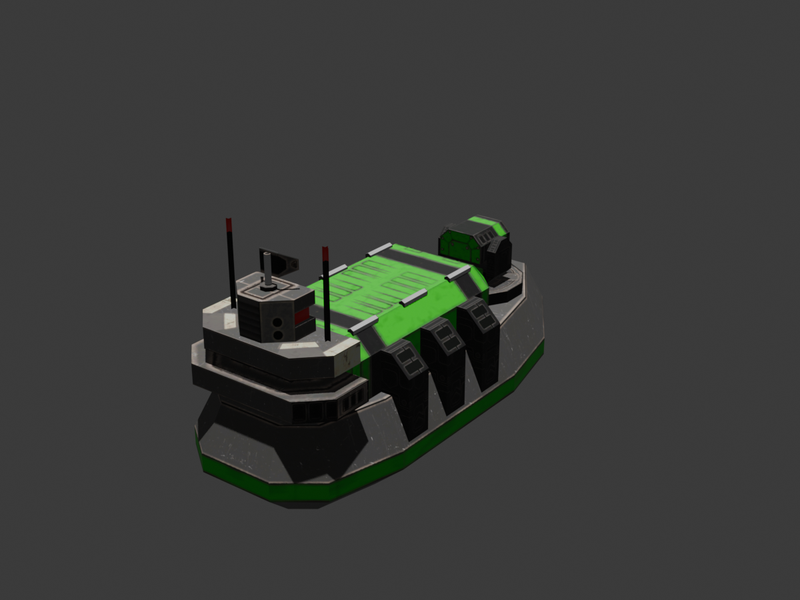
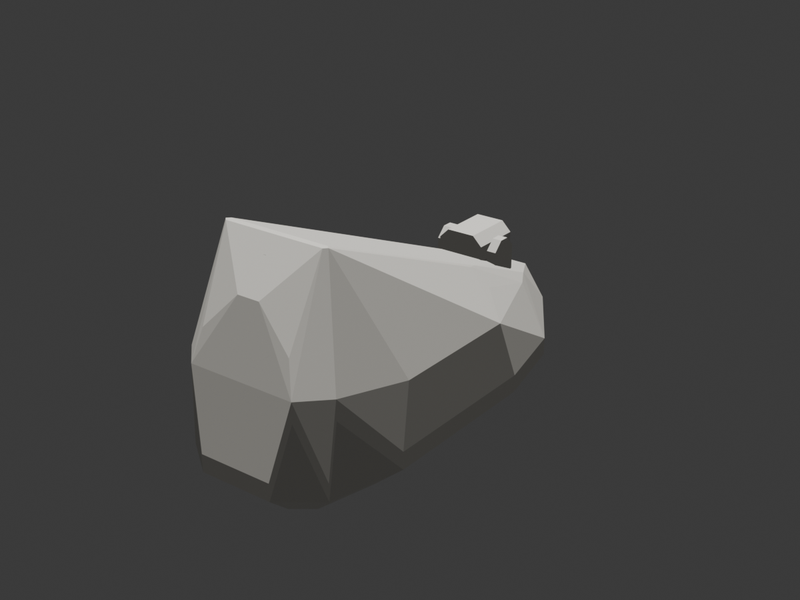
Update README motivation and STL samples

Changed region(s): [[0.2188, 0.36, 0.6875, 0.87]]

diff --git a/README.md b/README.md
@@ -2,6 +2,14 @@
 
 `barprint` is a local command-line pipeline for converting Beyond All Reason unit S3O models into printable STL or 3MF files through headless Blender. Normal exports do not require opening Blender manually.
 
+## Why
+
+Beyond All Reason has a large set of distinctive unit models, but those models are built for a realtime game engine rather than 3D printing. A direct mesh export often needs manual importer setup, pose work, scaling, axis fixes, split-vertex cleanup, thin-feature thickening, and mesh repair before it has a reasonable chance of printing cleanly.
+
+`barprint` packages that conversion into a repeatable local workflow. It discovers BAR units, imports S3O models through Blender, applies automatic pose profiles, normalizes scale, repairs common mesh issues, and exports printable STL or 3MF files with manifests and debug views. The goal is to make personal model preparation consistent enough that users can spend their time choosing units and tuning prints instead of rebuilding the same export pipeline by hand.
+
+The tool runs locally and does not upload BAR assets or generated models. It is a conversion aid only; users are still responsible for following BAR's asset licenses and terms.
+
 ## Quickstart
 
 Requirements: Python 3.10+, Blender, and an installed Beyond All Reason data directory.
@@ -28,7 +36,7 @@ python -m barprint doctor
 
 ## Sample Captures
 
-These are generated debug-stage captures from `barprint` exports. They show source model appearance and pose selection; final STL/3MF output is exported as printable geometry.
+These are generated debug-stage captures from `barprint` exports after the final STL is reimported into Blender. They show the printable geometry without source textures.
 
 | CORAK bot | CORPYRO heavy bot | CORMSHIP naval unit |
 | --- | --- | --- |